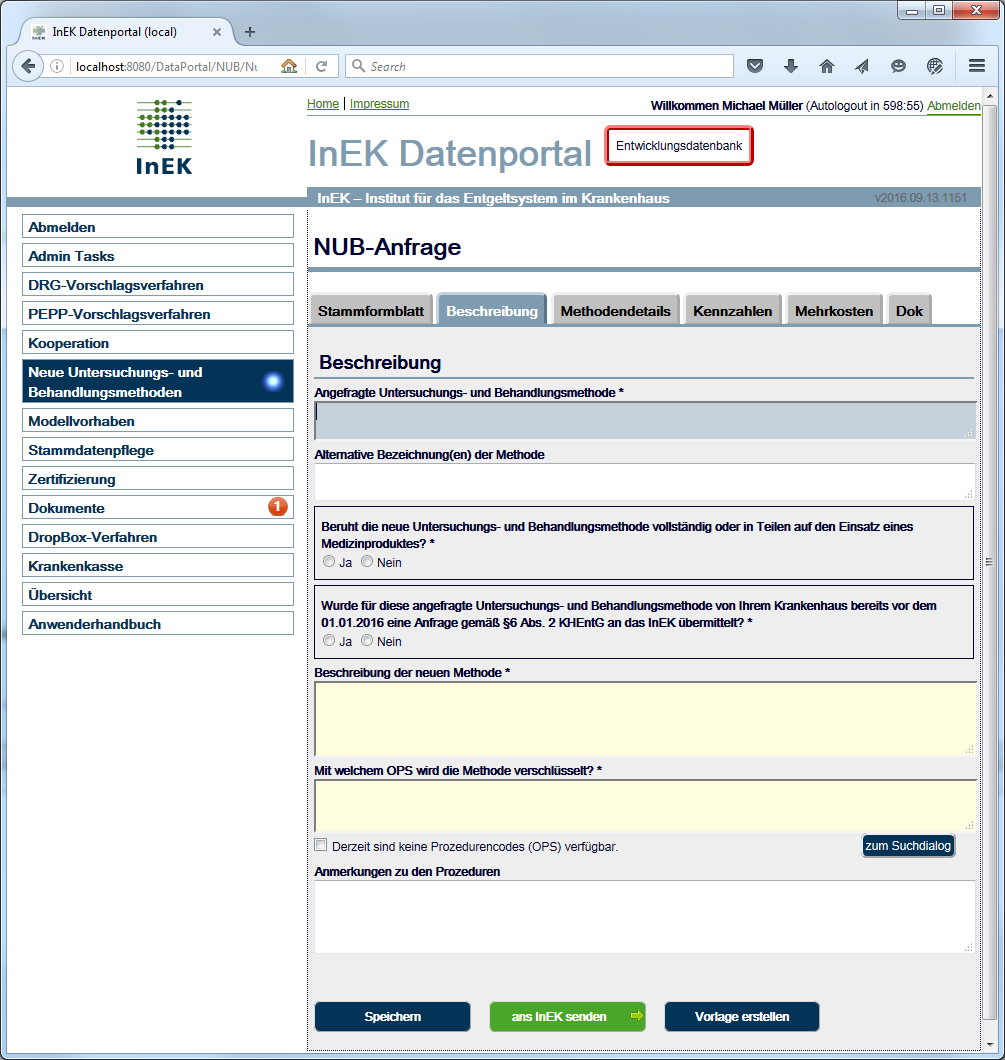
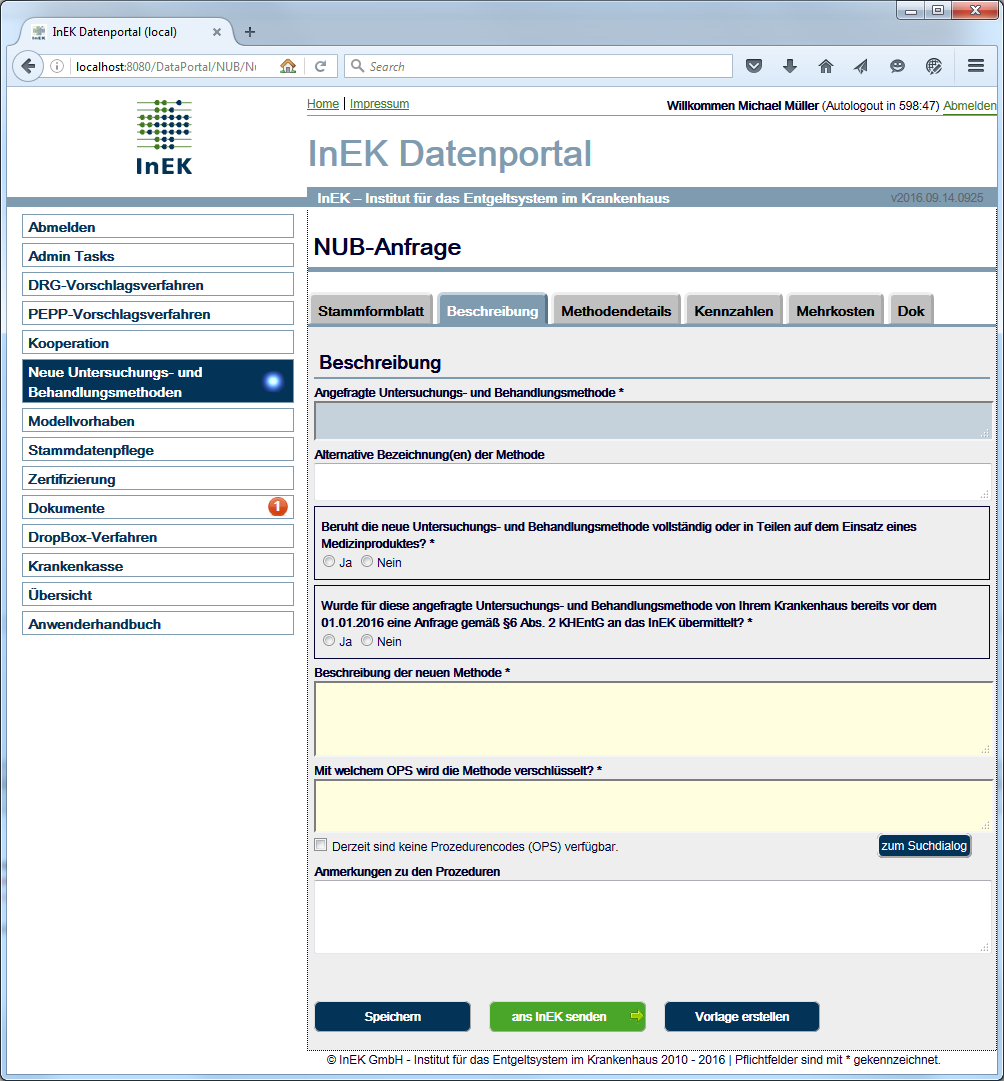
manual add "noprocs" to template

Changed region(s): [[0.0, 0.0, 1.0, 0.9651], [0.3088, 0.9028, 0.9572, 0.9962]]

diff --git a/DataPortal/src/main/java/org/inek/dataportal/feature/nub/NubController.java b/DataPortal/src/main/java/org/inek/dataportal/feature/nub/NubController.java
@@ -58,6 +58,7 @@ public class NubController extends AbstractFeatureController {
         appendLine(sb, NubFieldKey.Name, nubRequest.getName());
         appendLine(sb, NubFieldKey.AltName, nubRequest.getAltName());
         appendLine(sb, NubFieldKey.Description, nubRequest.getDescription());
+        appendLine(sb, NubFieldKey.HasNoProcs, "" + nubRequest.isHasNoProcs());
         appendLine(sb, NubFieldKey.ProcCodes, nubRequest.getProcs());
         appendLine(sb, NubFieldKey.Procedures, nubRequest.getProcedures());
         appendLine(sb, NubFieldKey.MedicalDevice, "" + nubRequest.getMedicalDevice());
@@ -136,6 +137,9 @@ public class NubController extends AbstractFeatureController {
                     break;
                 case Description:
                     request.setDescription(restoreBreaks(content));
+                    break;
+                case HasNoProcs:
+                    request.setHasNoProcs(content.toLowerCase().equals("true"));
                     break;
                 case ProcCodes:
                     request.setProcs(restoreBreaks(content));

diff --git a/DataPortal/src/main/java/org/inek/dataportal/enums/NubFieldKey.java b/DataPortal/src/main/java/org/inek/dataportal/enums/NubFieldKey.java
@@ -17,6 +17,7 @@ public enum NubFieldKey {
     Name,
     AltName,
     Description,
+    HasNoProcs,
     ProcCodes,
     Procedures,
     MedicalDevice,
